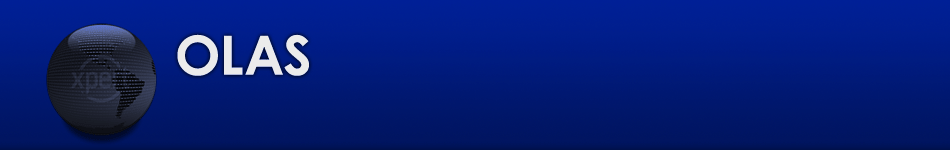
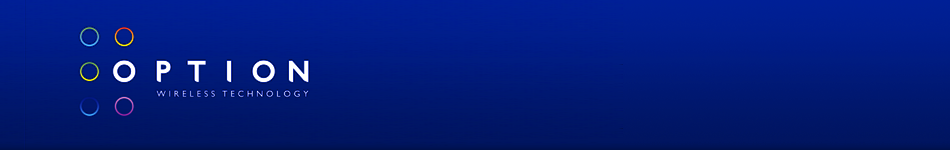
Option Theme fixing.
add: option webapp base module to parent pom.
upd: we now resolve the default application color from a theme.properties file instead of from SafeOnlineAppConstants as a last resort (web.xml is still processed as normal).
fix: some option image fixes and get rid of images from the olas theme that are not option-specific.

Changed region(s): [[0.0305, 0.16, 0.3358, 0.96]]

diff --git a/safe-online-webapp-base-olas/src/main/java/net/link/safeonline/webapp/resources/ApplicationStyleServlet.java b/safe-online-webapp-base-olas/src/main/java/net/link/safeonline/webapp/resources/ApplicationStyleServlet.java
@@ -9,6 +9,7 @@ package net.link.safeonline.webapp.resources;
 import java.io.IOException;
 import java.io.OutputStreamWriter;
 import java.util.Properties;
+import java.util.ResourceBundle;
 
 import javax.servlet.ServletConfig;
 import javax.servlet.ServletException;
@@ -60,7 +61,7 @@ public class ApplicationStyleServlet extends AbstractInjectionServlet {
     private static final long   serialVersionUID = 1L;
     private static final Log    LOG              = LogFactory.getLog(ApplicationStyleServlet.class);
 
-    @Context(name = SafeOnlineAppConstants.COLOR_CONTEXT, defaultValue = SafeOnlineAppConstants.DEFAULT_COLOR)
+    @Context(name = SafeOnlineAppConstants.COLOR_CONTEXT)
     private String              applicationColor;
     private VelocityEngine      velocity;
 
@@ -115,9 +116,15 @@ public class ApplicationStyleServlet extends AbstractInjectionServlet {
         // If not yet set, use the default application color.
         if (baseColor == null) {
             try {
-                baseColor = Integer.decode(this.applicationColor);
+                if (this.applicationColor != null) {
+                    baseColor = Integer.decode(this.applicationColor);
+                }
             } catch (NumberFormatException e) {
-                baseColor = Integer.decode(SafeOnlineAppConstants.DEFAULT_COLOR);
+            }
+
+            if (baseColor == null) {
+                String defaultColor = ResourceBundle.getBundle("net.link.safeonline.webapp.resources.theme").getString("defaultColor");
+                baseColor = Integer.decode(defaultColor);
             }
         }
 

diff --git a/safe-online-common/src/main/java/net/link/safeonline/common/SafeOnlineAppConstants.java b/safe-online-common/src/main/java/net/link/safeonline/common/SafeOnlineAppConstants.java
@@ -30,6 +30,4 @@ public interface SafeOnlineAppConstants {
 
     public static final String COLOR_ATTRIBUTE   = "applicationColor";
     public static final String MINIMAL_ATTRIBUTE = "applicationMinimal";
-
-    public static final String DEFAULT_COLOR     = "#5A7500";
 }
